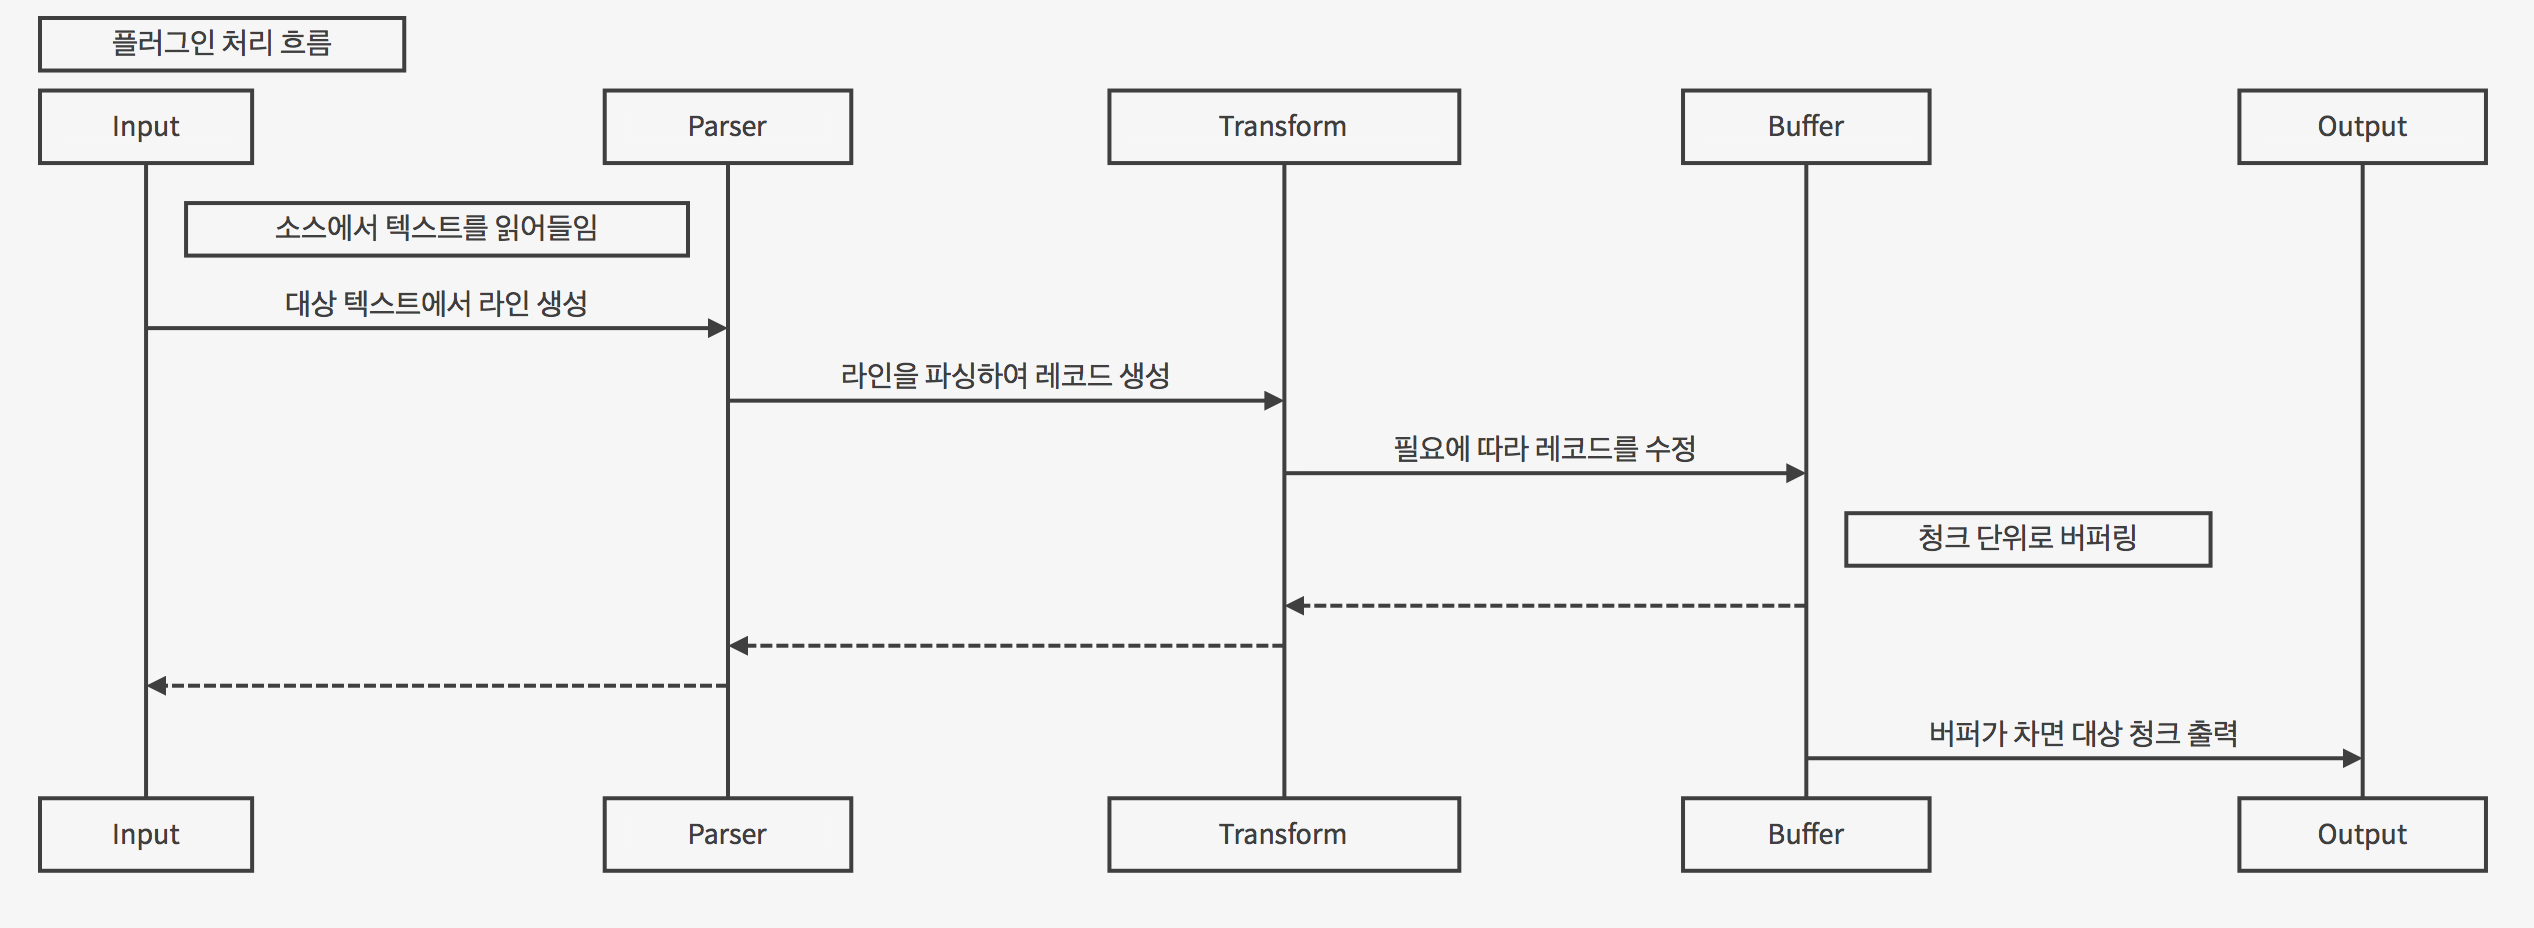
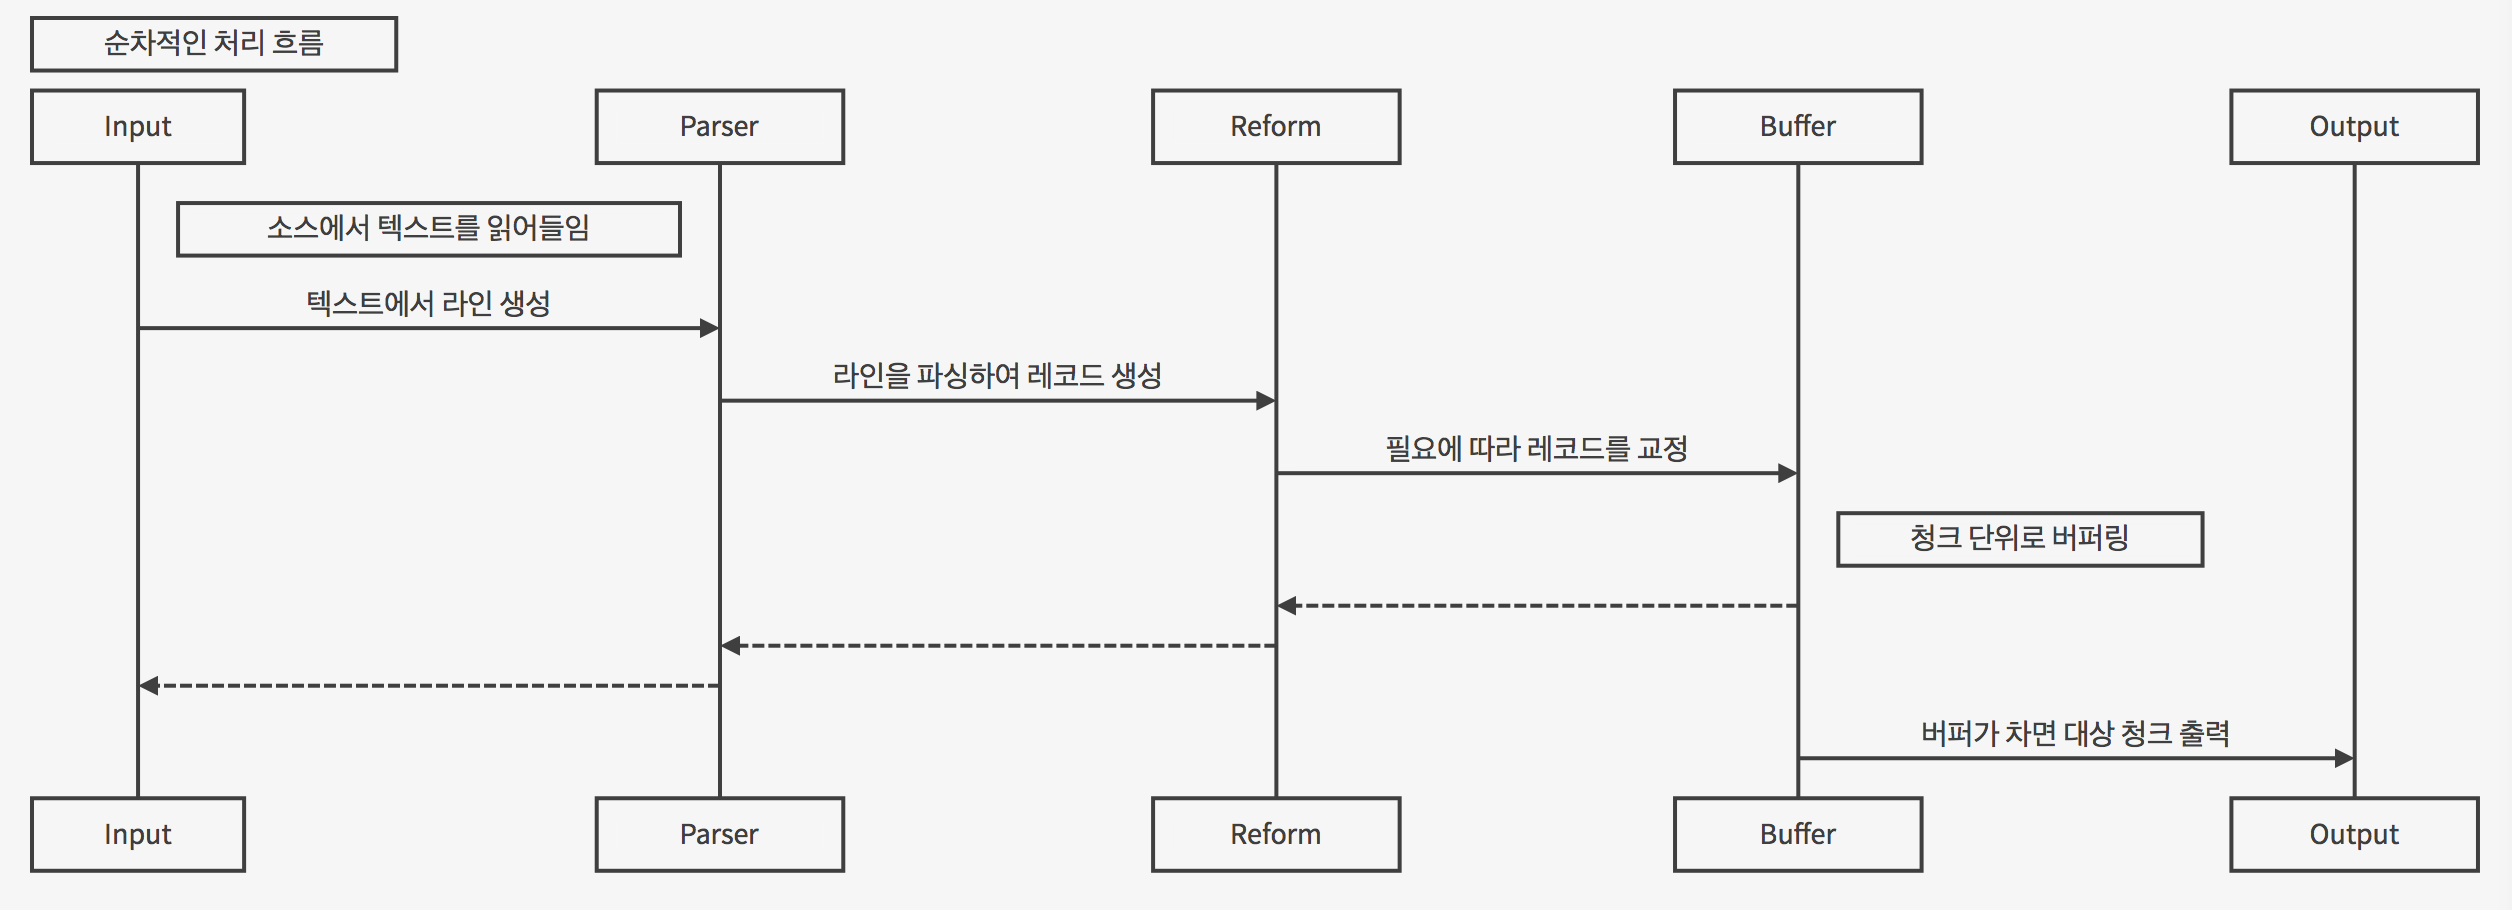
update doc

diff --git a/tests/test_plugin.py b/tests/test_plugin.py
@@ -1,3 +1,4 @@
+"""Test plugin."""
 from __future__ import absolute_import
 
 import os
@@ -7,46 +8,54 @@ from io import StringIO
 import pytest
 
 from swak.config import get_exe_dir
-from swak.plugin import enumerate_plugins, get_plugins_dir, dump_plugins_import,\
-    calc_plugins_hash, get_plugins_initpy_path, remove_plugins_initpy,\
-    check_plugins_initpy
+from swak.plugin import enumerate_plugins, get_plugins_dir,\
+    dump_plugins_import, calc_plugins_hash, get_plugins_initpy_path,\
+    remove_plugins_initpy, check_plugins_initpy
 from swak.util import test_logconfig
 
-SWAK_CMD = 'swak.bat' if os.name == 'nt' else 'swak'
+SWAK_CLI = 'swak.bat' if os.name == 'nt' else 'swak'
 
 test_logconfig()
 
 
 def plugin_filter(_dir):
+    """Filter plugins."""
     return _dir in ['counter', 'stdout']
 
 
 def plugin_filter1(_dir):
+    """Filter plugins."""
     return _dir in ['counter']
 
 
 def test_plugin_cmd(capfd):
-    cmd = [SWAK_CMD, '-vv', 'list']
-    call(cmd)
+    """Test plugin command."""
+    cmd = [SWAK_CLI, '-vv', 'list']
+    try:
+        call(cmd)
+    except FileNotFoundError:
+        return
+
     out, err = capfd.readouterr()
     print(err)
-    assert 'Swak has 2 plugin(s)' in out
+    assert 'Swak has 3 plugin(s)' in out
 
     # after first command, plugins/__init__.py shall exist.
     assert os.path.isfile(get_plugins_initpy_path())
 
-    cmd = [SWAK_CMD, 'desc', 'in.counter']
+    cmd = [SWAK_CLI, 'desc', 'in.counter']
     call(cmd)
     out, err = capfd.readouterr()
-    assert "Emit incremental number" in out
+    assert "Generate incremental numbers" in out
 
-    cmd = [SWAK_CMD, 'desc', 'in.notexist']
+    cmd = [SWAK_CLI, 'desc', 'in.notexist']
     call(cmd)
     out, err = capfd.readouterr()
     assert "Can not find" in err
 
 
 def test_plugin_util():
+    """Test plugin util."""
     path = os.path.join(get_exe_dir(), 'plugins')
     assert path == get_plugins_dir()
 
@@ -55,6 +64,7 @@ def test_plugin_util():
 
 
 def test_plugin_dump():
+    """Test plugin information dump."""
     dump = """\
 # WARNING: Auto-generated code. Do not edit.
 
@@ -68,7 +78,7 @@ MODULE_MAP = {
 """.replace('/', os.path.sep)
 
     sbuf = StringIO()
-    dump_plugins_import(sbuf)
+    dump_plugins_import(sbuf, _filter=plugin_filter)
     assert dump == sbuf.getvalue().replace(get_exe_dir(), '')
     sbuf.close()
 
@@ -76,6 +86,7 @@ MODULE_MAP = {
 @pytest.mark.skip(reason="Cause false import of plugins/__init__.py to other"
                   " tests.")
 def test_plugin_initpy():
+    """Test plugin __init__.py."""
     # test plugin checksum
     h = calc_plugins_hash(enumerate_plugins(None, plugin_filter1))
     assert '9d4feaa6af4dd11e31572d6c1896d8b2' == h

diff --git a/tests/test_event_router.py b/tests/test_event_router.py
@@ -17,7 +17,7 @@ def def_output():
 @pytest.fixture()
 def filter():
     """Create filter plugin and returns it."""
-    Refor
+    return Filter([("k", "V")])
 
 
 @pytest.fixture()
@@ -26,7 +26,7 @@ def output():
     return DummyOutput()
 
 
-def test_event_router(def_output, reform, output):
+def test_event_router(def_output, filter, output):
     """Test event router."""
     # router with only default output.
     event_router = EventRouter(def_output)
@@ -34,14 +34,17 @@ def test_event_router(def_output, reform, output):
     assert len(def_output.events['test']) == 1
 
     # router with an output
+    def_output.reset()
     event_router = EventRouter(def_output)
     event_router.add_rule("test", output)
     event_router.emit("test", time.time(), {"k": "v"})
     assert len(output.events['test']) == 1
 
     # router with reform & output.
+    output.reset()
+    assert len(output.events['test']) == 0
     event_router = EventRouter(def_output)
-    event_router.add_rule("test", reform)
+    event_router.add_rule("test", filter)
     event_router.add_rule("test", output)
-
-    # event_router.emit("test", time.time(), {"k": "v"})
+    event_router.emit("test", time.time(), {"k": "v"})
+    assert len(output.events['test']) == 0

diff --git a/swak/plugin.py b/swak/plugin.py
@@ -316,17 +316,18 @@ def load_module(name, path):
         raise UnsupportedPython()
 
 
-def dump_plugins_import(io, chksum=None):
+def dump_plugins_import(io, chksum=None, _filter=None):
     """Enumerate all plugins and dump import code to io.
 
     Args:
         io (IOBase): an IO instance where import code is written to.
         chksum (str): Explicitly given checksum.
+        _filter (function): Filter function for plugins test.
     """
     io.write(u"# WARNING: Auto-generated code. Do not edit.\n\n")
 
     plugins = []
-    for pi in enumerate_plugins():
+    for pi in enumerate_plugins(_filter=_filter):
         fname = os.path.splitext(pi.fname)[0]
         io.write(u"from swak.plugins.{} import {}\n".format(pi.dname, fname))
         plugins.append((pi.pname, fname, pi.cname))

diff --git a/docs/plugin.rst b/docs/plugin.rst
@@ -8,7 +8,7 @@ Swak 플러그인 개발
 플러그인 분류
 =============
 
-플러그인은 크게 입력, 파서, 변환, 버퍼, 출력 그리고 명령 플러그인의 여섯가지 타입으로 나뉜다. 각 타입별 플러그인은 다음과 같은 패키지명 형식으로 시작한다.
+플러그인은 크게 입력, 파서, 교정, 버퍼, 출력 그리고 명령 플러그인의 여섯가지 타입으로 나뉜다. 각 타입별 플러그인은 다음과 같은 패키지명 형식으로 시작한다.
 
 - 입력 플러그인: ``in.``
 - 파서 플러그인: ``par.``
@@ -27,11 +27,11 @@ Swak 플러그인 개발
 
 - 입력: 데이터 소스에서 텍스트를 읽거나 생성하여 라인으로 변환
 - 파서: 라인을 파싱하여 key-value 형태의 레코드로 변환 (선택적)
-- 변환: 라인을 필터링 하거나, 레코드의 특정 필드를 추가, 삭제, 변경 (선택적)
+- 교정: 라인을 필터링 하거나, 레코드의 특정 필드를 추가, 삭제, 변경 (선택적)
 - 버퍼: 레코드를 일정한 크기 또는 시간을 청크로하여 버퍼링 (선택적)
 - 출력: 개별 레코드 또는 버퍼링된 청크를 출력 대상에 쓴다.
 
-이외에 명령 플러그인은 테스크의 단계별로 다양한 일을 한다.
+이외에 명령 플러그인은 테스크의 단계별로 다양한 일을 한다. 다음은 플러그인의 처리 흐름을 그려본 것이다.
 
 .. image:: _static/plugin_flow.png
     :width: 850
@@ -50,54 +50,88 @@ Swak 플러그인 개발
 
 플러그인 디렉토리는 다음과 같은 식으로 구성된다:
 
-- 모든 디렉토리와 파일 명은 소문자와 ``_`` (정확히는 Snake Case)로 기입한다.
-- 각 플러그인은 자신의 이름과 같은 디렉토리에 존재한다.
+- 모든 디렉토리와 파일 명은 소문자와 ``_`` (Snake Case)로 기입한다.
 - 디렉토리 안에는 ``__init__.py`` 파일이 있어야 한다. (파일 내용은 없음)
-- 디렉토리 안에는 플러그인 타입에 맞는 '.' 대신 '_'를 사용한 접두어 + 이름 형식의 파이썬 모듈을 구현하여야 한다.
+- 디렉토리 안에는 플러그인 타입에 맞는 **접두어 + '_' + 이름** 형식의 파이썬 모듈을 구현하여야 한다.
 
-예를 들어 증가하는 숫자를 생성하는 입력 플러그인 `Counter` 를 만든다면, 다음과 같이 구성된다.::
+예를 들어 증가하는 숫자를 생성하는 입력 플러그인 ``Counter`` 를 만든다면, 다음과 같이 구성된다.::
 
     counter/
         __init__.py
         in_counter.py
 
 
-예를 들어 파일에 저장하는 출력 플러그인 ``File`` 을 만든다면, 다음과 같이 구성된다.::
+여기에서 ``in_counter.py`` 가 플러그인을 구현할 파이썬 모듈이다.
 
-    file/
-        __init__.py
-        out_file.py
+플러그인 모듈 구성
+------------------
 
+플러그인 모듈에는 플러그인 클래스와 그것의 인스턴스를 초기화해주는 코드가 필요하다.
 
-이 파일 안에 입력 플러그인의 기본 클래스를 상속 받아 다음과 같이 만들어 준다.
+플러그인 클래스
+^^^^^^^^^^^^^^^
+
+먼저 클래스 코드를 작성한다. 플러그인의 타입에 맞는 기본 클래스를 상속 받아 다음처럼 만들어 준다. (여기서는 입력 플러그인을 만들기에 ``BaseInput`` 을 상속 받는다.)
 
 .. code-block:: python
 
     class Counter(BaseInput):
         pass
 
+플러그인 타입별로 상속 받아야할 기본 클래스와, 구현해야할 메소드들이 있다. 이에 대해서는 이어서 소개하겠다.
 
-플러그인의 타입별 기본 클래스를 살펴보자.
+
+플러그인 인스턴스 초기화
+^^^^^^^^^^^^^^^^^^^^^^^^
+
+각 플러그인의 인스턴스를 만들기 위해서는 그것에 맞는 다양한 설정값들이 필요하다. 이를 위해서 Click을 사용해 ``main`` 이라는 이름의 함수를 구현해야 한다.
+
+.. note:: `Click <http://click.pocoo.org/5/>`_ 은 원래 파이썬에서 커맨드라인 인터페이스를 만들기 위한 툴이다. Swak에서는 **개별 플러그인을 하나의 커맨드라인 명령어처럼 취급** 하도록 고안 되었기에, Click을 이용해 플러그인 설정값을 받는다.
+
+위에서 정의한 플러그인 인스턴스를 초기화 하는 함수 ``main`` 을 아래와 같이 작성한다.
+
+.. code-block:: python
+
+    @click.command(help="Generate incremental numbers.")
+    @click.option('--max', default=10, show_default=True, help="Maximum count to"
+                  " emit.")
+    @click.option('--field', default=1, show_default=True, help="Number of count"
+                  " fields.")
+    @click.option('--delay', default=1, show_default=True, help="Delay seconds"
+                  " before next count.")
+    @click.pass_context
+    def main(ctx, max, field, delay):
+        return Counter(max, field, delay)
+
+
+    if __name__ == '__main__':
+        main()
+
+
+Click의 사용법에 대해서는 Click의 문서를 참고하자.
+
+.. note:: 국제적인 활용을 위해 코드내 주석문과 커맨드라인 도움말은 가급적 **영어** 로 기술하자.
+
 
 
 플러그인 기본 클래스
 ====================
 
-실재 플러그인 구현은 타입별 부모 클래스들을 상속받아 구현한다. 타입별 기본 클래스를 살펴보자.
+플러그인의 타입별 기본 클래스를 살펴보자.
 
-.. note:: 부모 클래스에서 필수 구현 멤버 함수는 자식 클래스에서도 필수 구현이다.
+.. note:: 명시적으로 **필수 구현** 을 표시하지 않은 클래스 메소드들은 모두 필요에 맞게 선택적으로 구현하면 된다. 부모 클래스에서 필수 구현 멤버 함수는 자식 클래스에서도 필수 구현이다.
+
+
+실재 플러그인 구현은 타입별 부모 클래스들을 상속받아 구현한다. 타입별 기본 클래스를 살펴보자.
 
 BasePlugin 클래스
 -----------------
 
-모든 플러그인은 이 클래스를 상속받는다.
+모든 타입 기본 클래스는 이 클래스를 상속받는다.
 
 .. code-block:: python
 
     class Plugin(Object):
-
-        def configure(self, conf):
-            ...
 
         def start(self):
             ...
@@ -110,22 +144,6 @@ BasePlugin 클래스
 
 
 다음과 같은 메소드를 갖고 있다.
-
-configure (필수 구현)
-^^^^^^^^^^^^^^^^^^^^^
-
-.. code-block:: python
-
-    def configure(self, conf):
-        pass
-
-
-이 메소드는 설정 정보(``conf``)를 받아 다음과 같은 처리를 구현해야 한다.
-
-- 설정 정보가 맞는지 검증
-  꼭 필요한 필드가 있는지? 적절한 범위의 값인지? 논리적 오류가 없는지 등을 체크하고, 만약 문제가 있으면 ``ConfgError('에러 내용')`` 으로 예외를 발생시킨다.
-- 설정 정보에 이상이 없으면, 관련 멤버 변수로 설정 정보를 저장한다.
-- 설정 정보에 없는 변수는 기본 값으로 초기화한다.
 
 start
 ^^^^^

diff --git a/docs/intro.rst b/docs/intro.rst
@@ -34,7 +34,7 @@ Swak 소개
 플러그인 구조
 =============
 
-Swak은 어플리케이션의 기본 틀외 모든 기능들을 플러그인으로 구현한다. 플러그인은 크게 입력, 파서, 변환, 버퍼, 출력 그리고 명령 플러그인의 여섯가지 타입으로 나뉜다. 각 타입별 플러그인은 다음과 같은 패키지명 형식으로 시작한다.
+Swak은 어플리케이션의 기본 틀외 모든 기능들을 플러그인으로 구현한다. 플러그인은 크게 입력, 파서, 교정, 버퍼, 출력 그리고 명령 플러그인의 여섯가지 타입으로 나뉜다. 각 타입별 플러그인은 다음과 같은 패키지명 형식으로 시작한다.
 
 * 입력 플러그인 ``in.``
 * 파서 플러그인 ``par.``

diff --git a/docs/api.rst b/docs/api.rst
@@ -1,8 +1,17 @@
-********
+************
 API 레퍼런스
-********
+************
 
 .. automodule:: swak.core
+    :members:
+
+.. automodule:: swak.plugin
+    :members:
+
+.. automodule:: swak.event
+    :members:
+
+.. automodule:: swak.event_router
     :members:
 
 .. automodule:: swak.util
